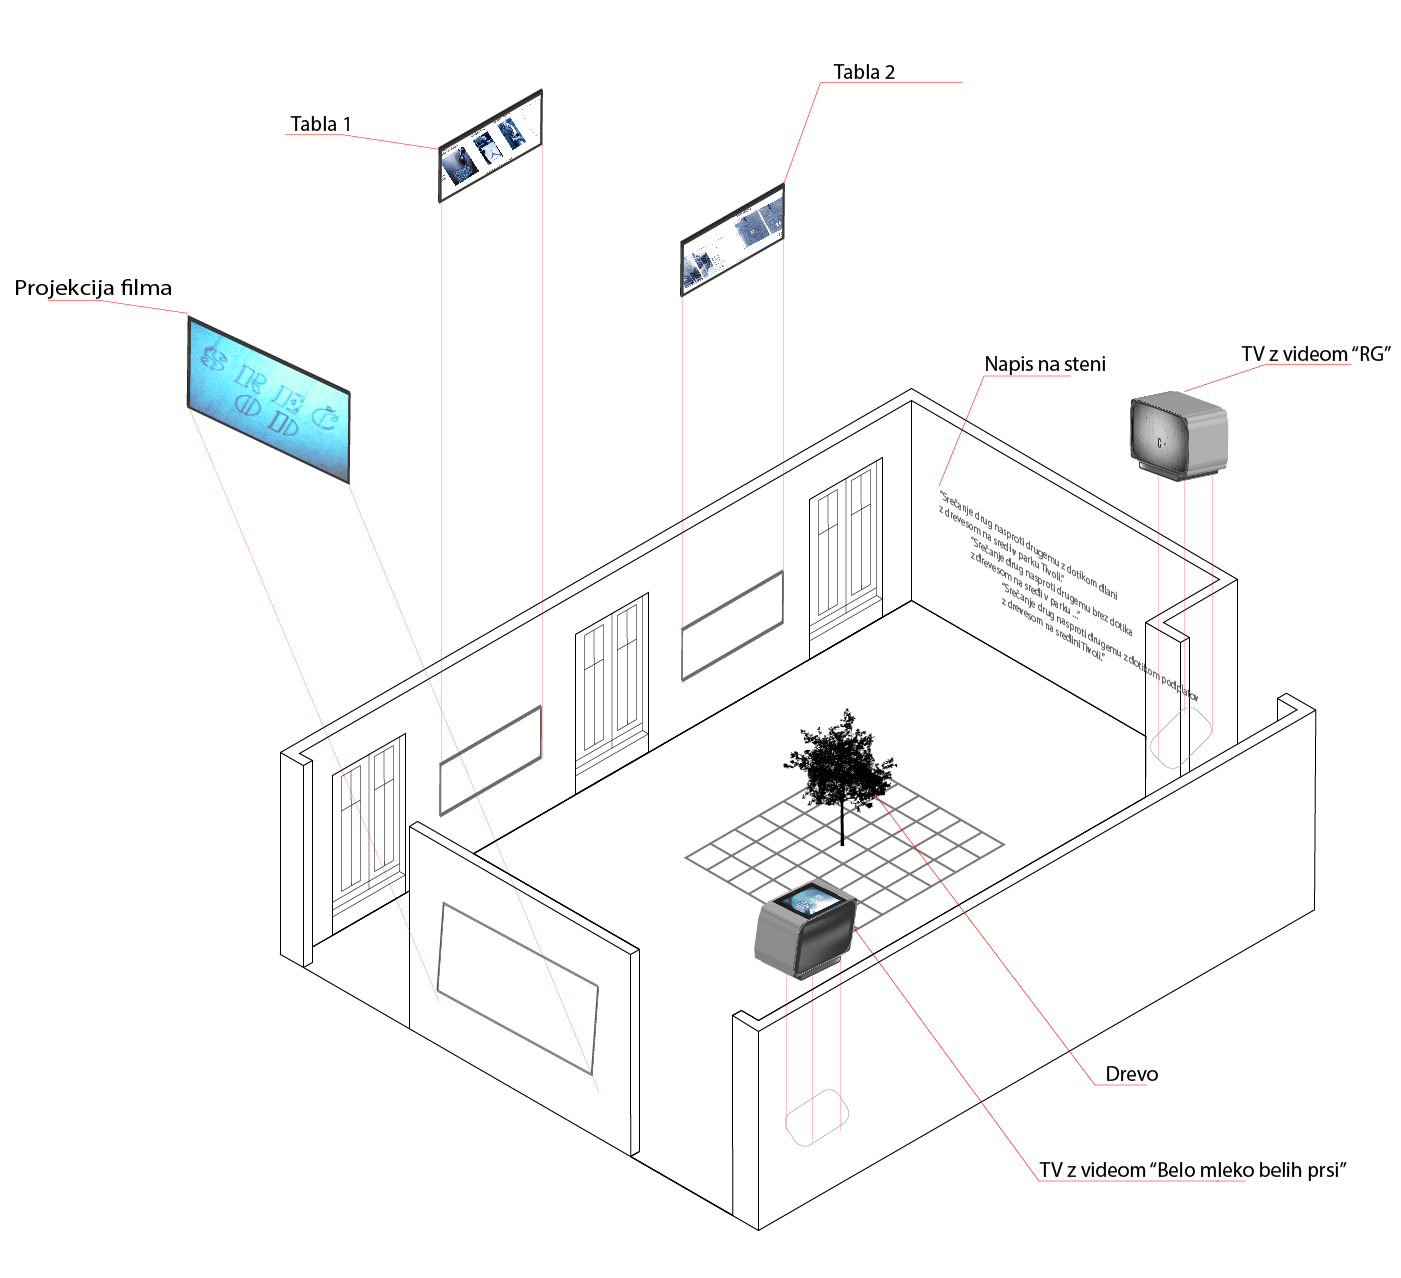
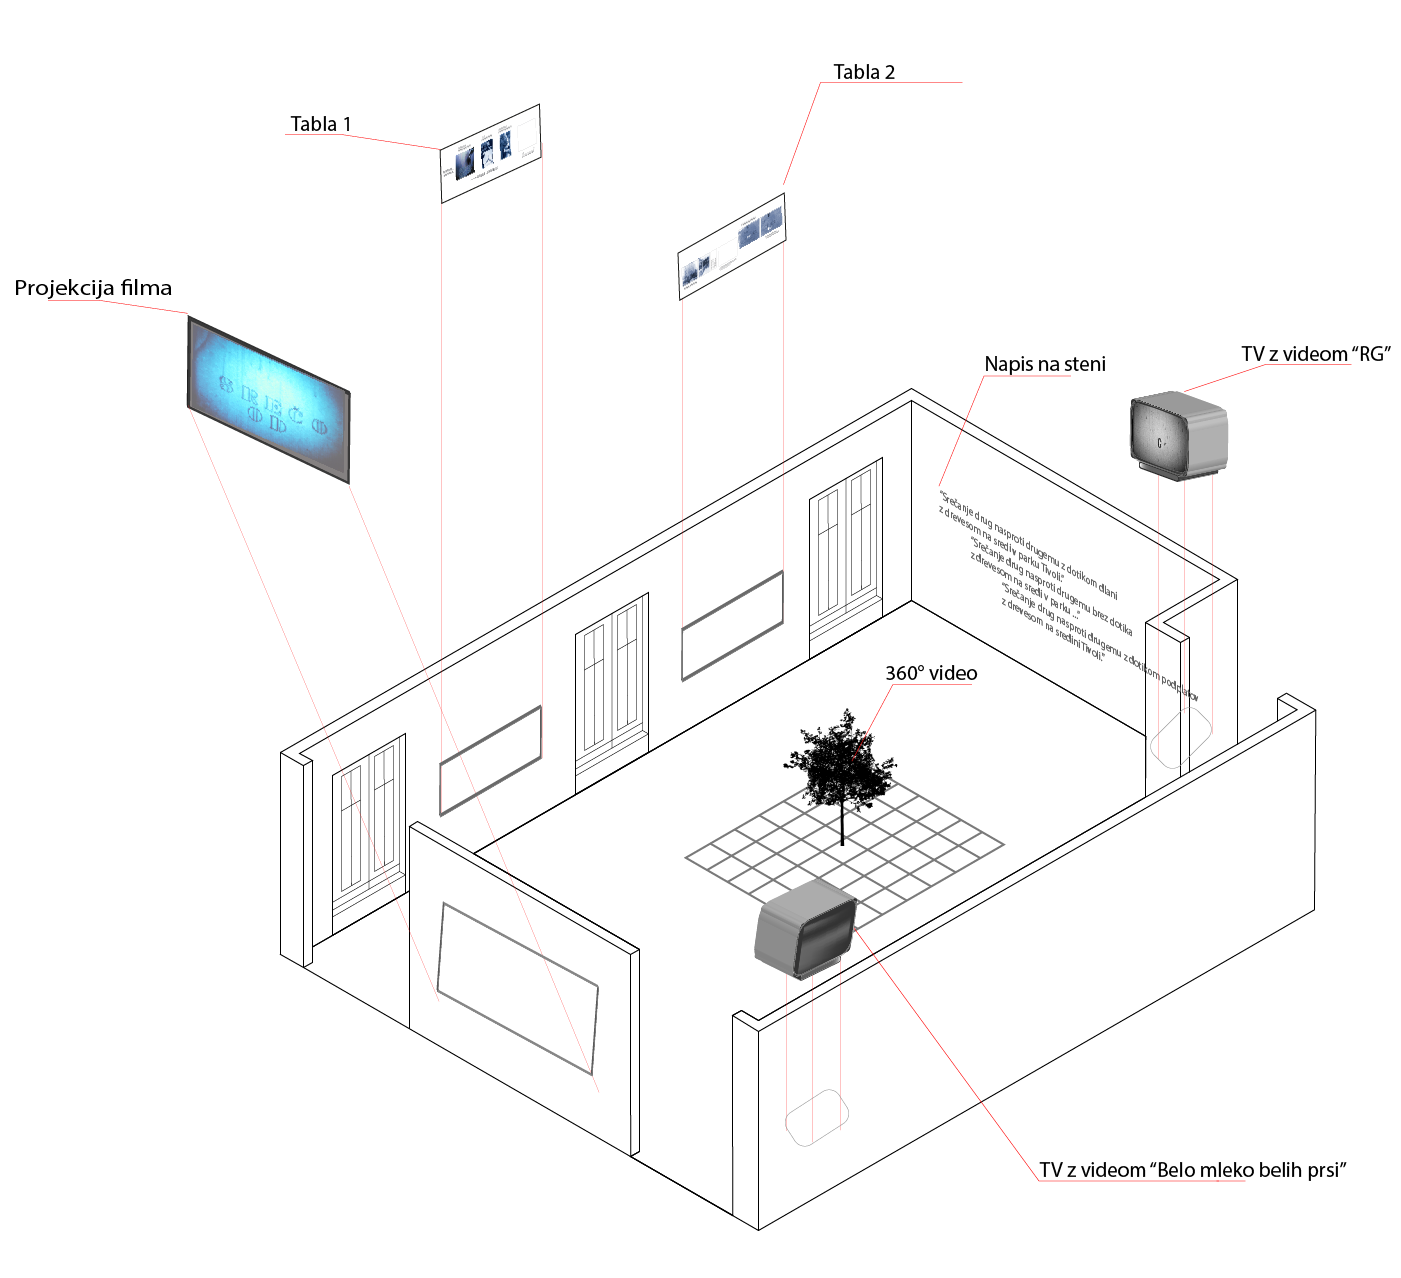
- fixes

diff --git a/room1/tloris.html b/room1/tloris.html
@@ -1,7 +1,7 @@
 <div id="room1" style="text-align: center" class="hidden">
     <map name="room1_map">
         <area id="tabla1" alt="Tabla 1" title="Tabla 1" onmouseover='myHover(this);'
-              onmouseout='myLeave("room1_canvas");' shape="poly" coords="438,146,544,89,541,144,438,203"
+              onmouseout='myLeave("room1_canvas");' shape="poly" coords="439,150,541,104,541,158,440,203"
               style="outline:none;" target="_self" data-fancybox data-src="#table1"/>
 
         <area id="proj_filma" alt="Projekcija filma" title="Projekcija filma" onmouseover='myHover(this);'
@@ -9,7 +9,7 @@
               style="outline:none;" target="_self" data-fancybox data-src="#projFilma"/>
 
         <area id="tabla_2" alt="Tabla 2" title="Tabla 2" onmouseover='myHover(this);'
-              onmouseout='myLeave("room1_canvas");' shape="poly" coords="680,240,784,183,784,239,681,298"
+              onmouseout='myLeave("room1_canvas");' shape="poly" coords="677,252,784,194,786,240,678,300"
               style="outline:none;" target="_self" data-fancybox data-src="#table2"/>
 
         <area id="napis_na_steni" alt="napis na steni" title="Napis na steni" onmouseover='myHover(this);'
@@ -28,21 +28,27 @@
               coords="753,955,762,905,818,879,859,899,847,949,839,959,802,979" style="outline:none;"
               target="_self" data-fancybox data-src="#beloMleko"/>
 
+        <area id="drevo" alt="drevo" title="drevo" shape="poly"
+              onmouseover='myHover(this);' onmouseout='myLeave("room1_canvas");'
+              coords="840,848,838,805,832,805,822,807,814,805,806,802,810,795,804,796,798,794,803,786,804,778,804,770,799,771,794,768,785,772,783,764,786,760,790,756,793,748,803,751,811,746,807,739,800,729,807,727,817,734,827,728,834,725,843,719,844,709,855,718,853,732,862,731,872,734,869,748,872,759,879,768,888,757,899,768,891,784,884,782,884,793,880,798,872,800,869,808,862,807,857,816,855,809,852,803,846,803,844,844" style="outline:none;"
+              target="_self" data-fancybox data-src="#drevoL"/>
 
-        <area id="vrata_1" alt="Soba 9" title="Soba 9" onmouseover='myHover(this);' onclick="myInit('room9_img', 'rgba(0, 0, 0, 0.25)', 'room9_canvas')"
+
+
+        <area id="vrata_1" class="room-change" alt="Soba 9" title="Soba 9" onmouseover='myHover(this);' onclick="myInit('room9_img', 'rgba(0, 0, 0, 0.25)', 'room9_canvas')"
               onmouseout='myLeave("room1_canvas");' shape="poly" coords="307,763,414,825,409,1026,302,967"
               style="outline:none;" target="_self" data-fancybox data-src="#room9"/>
 
-        <area id="vrata_2" alt="Soba 9" title="Soba 9" onmouseover='myHover(this);' onclick="myInit('room9_img', 'rgba(0, 0, 0, 0.25)', 'room9_canvas')"
+        <area id="vrata_2" class="room-change" alt="Soba 9" title="Soba 9" onmouseover='myHover(this);' onclick="myInit('room9_img', 'rgba(0, 0, 0, 0.25)', 'room9_canvas')"
               onmouseout='myLeave("room1_canvas");' shape="poly" coords="632,952,737,1012,730,1214,633,1158"
               style="outline:none;" target="_self" data-fancybox data-src="#room9"/>
 
-        <area id="vrata_3" alt="Soba 2" title="Soba 2" onmouseover='myHover(this);' onclick="myInit('room2_img', 'rgba(0, 0, 0, 0.25)', 'room2_canvas')"
+        <area id="vrata_3" class="room-change" alt="Soba 2" title="Soba 2" onmouseover='myHover(this);' onclick="myInit('room2_img', 'rgba(0, 0, 0, 0.25)', 'room2_canvas')"
               onmouseout='myLeave("room1_canvas");' shape="poly" coords="1183,641,1280,695,1273,880,1180,833"
               style="outline:none;" target="_self" data-fancybox data-src="#room2"/>
     </map>
     <canvas id='room1_canvas'></canvas>
-    <img src="static/room1_new.png" style="max-width: 60%;" usemap="#room1_map" id="room1_img">
+    <img src="static/room1.png" style="max-width: 60%;" usemap="#room1_map" id="room1_img">
 </div>
 
 <div id="table1" class="hidden">
@@ -70,6 +76,12 @@
     </video>
 </div>
 <div id="beloMleko" class="hidden">
+    <video width="728px" height="410px" autobuffer="autobuffer" loop="loop" controls="controls">
+        <source src='static/SOBA_1/belo_mleko.mp4' type='video/mp4'>
+        Not supported..
+    </video>
+</div>
+<div id="drevoL" class="hidden">
     <video width="728px" height="410px" autobuffer="autobuffer" loop="loop" controls="controls">
         <source src='static/SOBA_1/belo_mleko.mp4' type='video/mp4'>
         Not supported..

diff --git a/room2/tloris.html b/room2/tloris.html
@@ -17,7 +17,7 @@
               coords="1452,166,1495,187,1497,167,1560,197,1558,221,1598,246,1596,268,1558,251,1556,271,1487,243,1492,215,1448,196"
               style="outline:none;" target="_self"/>
         <area id="atr_diaprojekcija" onmouseover='myHover(this);' onmouseout='myLeave("room2_canvas");' target="_self"
-              data-fancybox data-src="#atr_diaprojekcija_" alt="" title="Alpha Theta ritem diaprojekcija" shape="poly"
+              data-fancybox data-src="#atr_diaprojekcija_" alt="" title="Favit" shape="poly"
               coords="447,1208,548,1260,542,1328,440,1277" style="outline:none;" target="_self"/>
         <area id="tabla_4" onmouseover='myHover(this);' onmouseout='myLeave("room2_canvas");' target="_self"
               data-fancybox data-src="#tabla_4_" alt="" title="Tabla 4" shape="poly"
@@ -38,14 +38,20 @@
               data-fancybox data-src="#vzhoda_na_zahod_" alt="" title="Z vzhoda na zahod" shape="poly"
               coords="771,943,833,913,867,938,861,983,853,996,812,1016,767,993" style="outline:none;" target="_self"/>
         <area id="favit_diaprojekcija2" onmouseover='myHover(this);' onmouseout='myLeave("room2_canvas");'
-              target="_self" data-fancybox data-src="#favit_diaprojekcija2_" alt="" title="Favit" shape="poly"
+              target="_self" data-fancybox data-src="#favit_diaprojekcija2_" alt="" title="Alpha Theta ritem diaprojekcija" shape="poly"
               coords="1736,499,1810,459,1811,508,1741,552" style="outline:none;" target="_self"/>
 
-        <area id="vrata_1" onmouseover='myHover(this);' onmouseout='myLeave("room2_canvas");' target="_self"
+        <area id="pesek_na_tleh" onmouseover='myHover(this);' onmouseout='myLeave("room2_canvas");'
+              target="_self" data-fancybox data-src="#pesek_na_tleh_" alt="" title="Pesek na tleh" shape="poly"
+              coords="912,819,1033,749,1117,799,1000,869" style="outline:none;" target="_self"/>
+
+
+
+        <area id="vrata_1" class="room-change" onmouseover='myHover(this);' onmouseout='myLeave("room2_canvas");' target="_self"
               data-fancybox data-src="#room1" alt="" title="Soba 1" shape="poly"  onclick="myInit('room1_img', 'rgba(0, 0, 0, 0.25)', 'room1_canvas')"
               coords="945,1008,1057,941,1061,1146,951,1213" style="outline:none;" target="_self"/>
 
-        <area id="vrata_2" onmouseover='myHover(this);' onmouseout='myLeave("room2_canvas");' target="_self"
+        <area id="vrata_2" class="room-change" onmouseover='myHover(this);' onmouseout='myLeave("room2_canvas");' target="_self"
               data-fancybox data-src="#room3" alt="" title="Soba 3 in 4" shape="poly"  onclick="myInit('room3_img', 'rgba(0, 0, 0, 0.25)', 'room3_canvas')"
               coords="1333,363,1416,408,1411,591,1335,550" style="outline:none;" target="_self"/>
 
@@ -99,4 +105,7 @@
 </div>
 <div id="vrata_2_" class="hidden">
     <img src="static/SOBA_2/tabla_2.PNG" alt="Tabla 2">
+</div>
+<div id="pesek_na_tleh_" class="hidden">
+    <img src="static/SOBA_2/pesek_na_tleh.jpg" alt="Pesek na tleh">
 </div>

diff --git a/room34/tloris.html b/room34/tloris.html
@@ -41,16 +41,16 @@
               coords="671,630,733,591,732,628,672,667" style="outline:none;" target="_self"/>
 
 
-        <area id="vrata1" onmouseover='myHover(this);' onmouseout='myLeave("room3_canvas");' target="_self"
+        <area id="vrata1" onmouseover='myHover(this);' class="room-change" onmouseout='myLeave("room3_canvas");' target="_self"
               data-fancybox data-src="#room56" alt="" title="Soba 5 in 6" shape="poly"
               onclick="myInit('room56_img', 'rgba(0, 0, 0, 0.25)', 'room56_canvas')"
               coords="337,1204,432,1260,427,1459,336,1404" style="outline:none;" target="_self"/>
-        <area id="vrata3" onmouseover='myHover(this);' onmouseout='myLeave("room3_canvas");' target="_self"
+        <area id="vrata3" onmouseover='myHover(this);' class="room-change" onmouseout='myLeave("room3_canvas");' target="_self"
               data-fancybox data-src="#room56" alt="" title="Soba 5 in 6" shape="poly"
               onclick="myInit('room56_img', 'rgba(0, 0, 0, 0.25)', 'room56_canvas')"
               coords="748,1582,874,1657,877,1453,775,1426,756,1425,748,1423" style="outline:none;" target="_self"/>
 
-        <area id="vrata2" onmouseover='myHover(this);' onmouseout='myLeave("room3_canvas");' target="_self"
+        <area id="vrata2" onmouseover='myHover(this);' class="room-change" onmouseout='myLeave("room3_canvas");' target="_self"
               data-fancybox data-src="#room2" alt="" title="Soba 2" shape="poly"
               onclick="myInit('room2_img', 'rgba(0, 0, 0, 0.25)', 'room2_canvas')"
               coords="1264,1243,1410,1159,1408,1362,1269,1452" style="outline:none;" target="_self"/>

diff --git a/room56/tloris.html b/room56/tloris.html
@@ -89,12 +89,12 @@
               style="outline:none;" target="_self"/>
 
 
-        <area alt="" title="Soba 7 in 8" onmouseover='myHover(this);' onmouseout='myLeave("room56_canvas");'
+        <area alt="" class="room-change" title="Soba 7 in 8" onmouseover='myHover(this);' onmouseout='myLeave("room56_canvas");'
               shape="poly" data-fancybox data-src="#room78"
               coords="1157,447,1248,393,1250,590,1155,646" style="outline:none;" target="_self"
               onclick="myInit('room78_img', 'rgba(0, 0, 0, 0.25)', 'room78_canvas')"/>
 
-        <area alt="" title="Soba 3 in 4" onmouseover='myHover(this);' onmouseout='myLeave("room56_canvas");'
+        <area alt="" class="room-change" title="Soba 3 in 4" onmouseover='myHover(this);' onmouseout='myLeave("room56_canvas");'
               shape="poly" data-fancybox data-src="#room3"
               coords="358,925,456,981,448,1188,360,1135" style="outline:none;" target="_self"
               onclick="myInit('room3_img', 'rgba(0, 0, 0, 0.25)', 'room3_canvas')"/>
@@ -179,3 +179,7 @@
         Not supported..
     </video>
 </div>
+
+
+<area  alt="" title="" href="http://www.image-maps.com/" shape="poly" coords="677,252,784,194,786,240,678,300" style="outline:none;" target="_self"     />
+<area  alt="" title="" href="http://www.image-maps.com/" shape="poly" coords="439,150,541,104,541,158,440,203" style="outline:none;" target="_self"     />

diff --git a/room78/tloris.html b/room78/tloris.html
@@ -40,12 +40,12 @@
               coords="1394,976.9999389648438,1465,934.9999389648438,1469,970.9999389648438,1397,1009.9999389648438"
               style="outline:none;" target="_self"/>
 
-        <area onmouseover='myHover(this);' onmouseout='myLeave("room78_canvas");' title="Soba 9" shape="poly"
+        <area onmouseover='myHover(this);' class="room-change" onmouseout='myLeave("room78_canvas");' title="Soba 9" shape="poly"
               data-fancybox data-src="#room9"
               coords="850,1034,987,954,987,1156,854,1234" style="outline:none;" target="_self"
               onclick="myInit('room9_img', 'rgba(0, 0, 0, 0.25)', 'room9_canvas')"/>
 
-        <area onmouseover='myHover(this);' onmouseout='myLeave("room78_canvas");' title="Soba 5 in 6" shape="poly"
+        <area onmouseover='myHover(this);' class="room-change" onmouseout='myLeave("room78_canvas");' title="Soba 5 in 6" shape="poly"
               data-fancybox data-src="#room56"
               coords="739,1019,630,956,613,1140,738,1217" style="outline:none;" target="_self"
               onclick="myInit('room56_img', 'rgba(0, 0, 0, 0.25)', 'room56_canvas')"/>

diff --git a/room9/tloris.html b/room9/tloris.html
@@ -22,11 +22,11 @@
               onmouseout='myLeave("room9_canvas");' onmouseover='myHover(this);'
               coords="335,902,401,868,403,911,336,949" style="outline:none;" target="_self"/>
 
-        <area onmouseout='myLeave("room9_canvas");' onmouseover='myHover(this);' title="Soba 7 in 8" shape="poly"
+        <area onmouseout='myLeave("room9_canvas");' class="room-change" onmouseover='myHover(this);' title="Soba 7 in 8" shape="poly"
               onclick="myInit('room78_img', 'rgba(0, 0, 0, 0.25)', 'room78_canvas')" data-fancybox data-src="#room78"
               coords="557,642,698,725,696,925,558,843" style="outline:none;" target="_self"/>
 
-        <area onmouseout='myLeave("room9_canvas");' onmouseover='myHover(this);' title="Izhod" shape="poly"
+        <area onmouseout='myLeave("room9_canvas");' class="room-change" onmouseover='myHover(this);' title="Izhod" shape="poly"
               coords="1152,313,1288,387,1273,577,1151,511" style="outline:none;" target="_self" href="index.html"/>
 
     </map>

diff --git a/index.html b/index.html
@@ -14,7 +14,7 @@
     <area alt="" title="Room 1" data-fancybox data-src="#room1" onmouseover='myHover(this);'
           onclick="myInit('room1_img', 'rgba(0, 0, 0, 0.25)', 'room1_canvas')" onmouseout='myLeave("mainCanvas");'
           href="http://www.image-maps.com/" shape="rect" coords="533,268,690,362" style="outline:none;" target="_self"/>
-    <area alt="Tabla 2" title="Tabla 2" data-fancybox data-src="#room2" onmouseover='myHover(this);'
+    <area alt="Room 2" title="Room 2" data-fancybox data-src="#room2" onmouseover='myHover(this);'
           onclick="myInit('room2_img', 'rgba(0, 0, 0, 0.25)', 'room2_canvas')" onmouseout='myLeave("mainCanvas");'
           href="http://www.image-maps.com/" shape="rect" coords="700,268,912,369" style="outline:none;" target="_self"/>
     <area alt="Room 3, 4" title="Room 3, 4" data-fancybox data-src="#room3" onmouseover='myHover(this);'

diff --git a/main.js b/main.js
@@ -103,7 +103,11 @@ function myInit(id, hoverColor, canvasId)
 		
 		$(".fancybox-close-small").on("click", function(){
 			myInit('tloris-id', 'rgba(0,0,0,.2)', 'mainCanvas');
-		})
+		});
+
+        $(".room-change").on("click", function(){
+            parent.$.fancybox.close();
+        });
 	}, 500);
 	
 	
